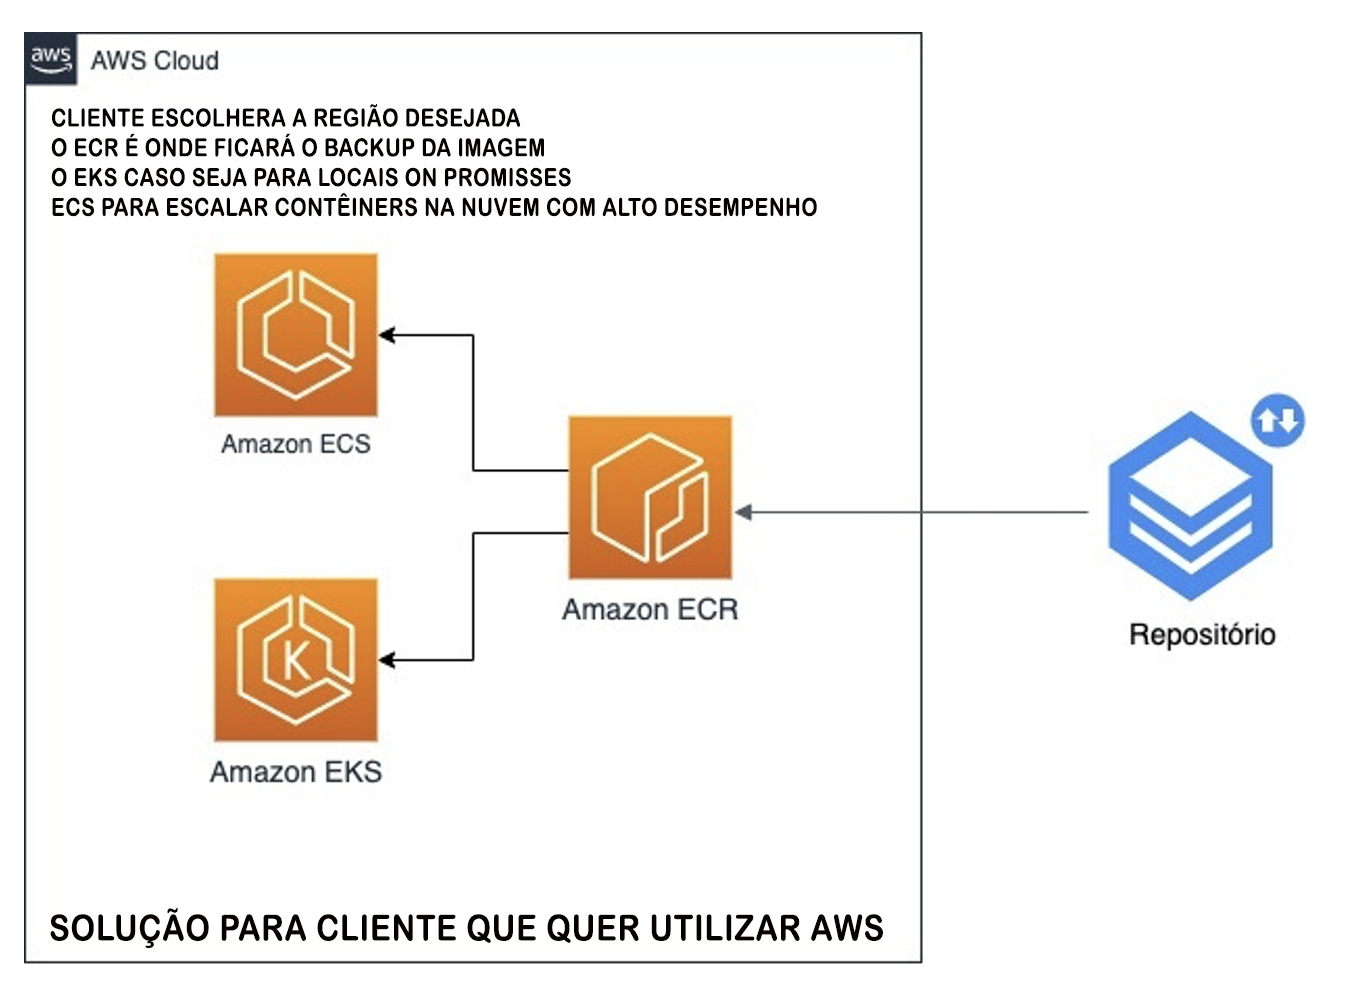
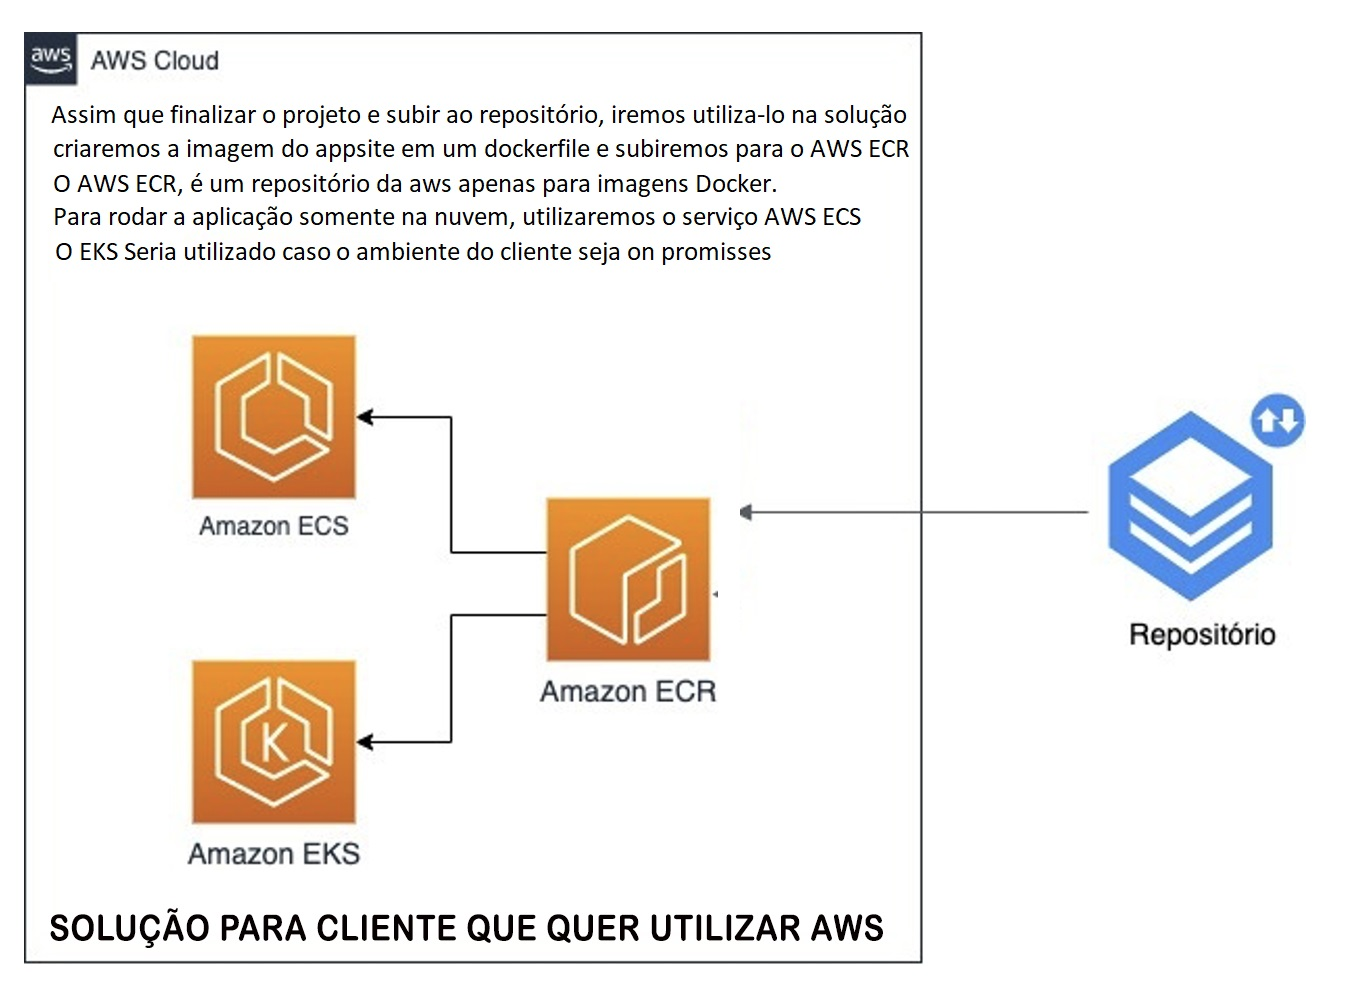
subindo readme atualizado

Changed region(s): [[0.0308, 0.0916, 0.6784, 0.5499], [0.1233, 0.3971, 0.5551, 0.8859], [0.3392, 0.4582, 0.37, 0.4888]]

diff --git a/README.md b/README.md
@@ -109,8 +109,6 @@ Segue a lista de padrões separados por tipo:
 ## PARA HOMOLOGAÇÃO E PRODUÇÃO DO APP-SITE
 
 <img src="./assets/arquitetura-1-ec2.jpg" style=" HEIGHT: 200px; LEFT: 400px"/>
-<img src="./assets/arquitetura-2-fargate.jpg" style=" HEIGHT: 200px; LEFT: 400px"/>
-<img src="./assets/arquitetura-3-on-promisses.jpg" style=" HEIGHT: 200px; LEFT: 200px"/>
 
 ## LICENÇA ESTÁ NO PROJETO
 
